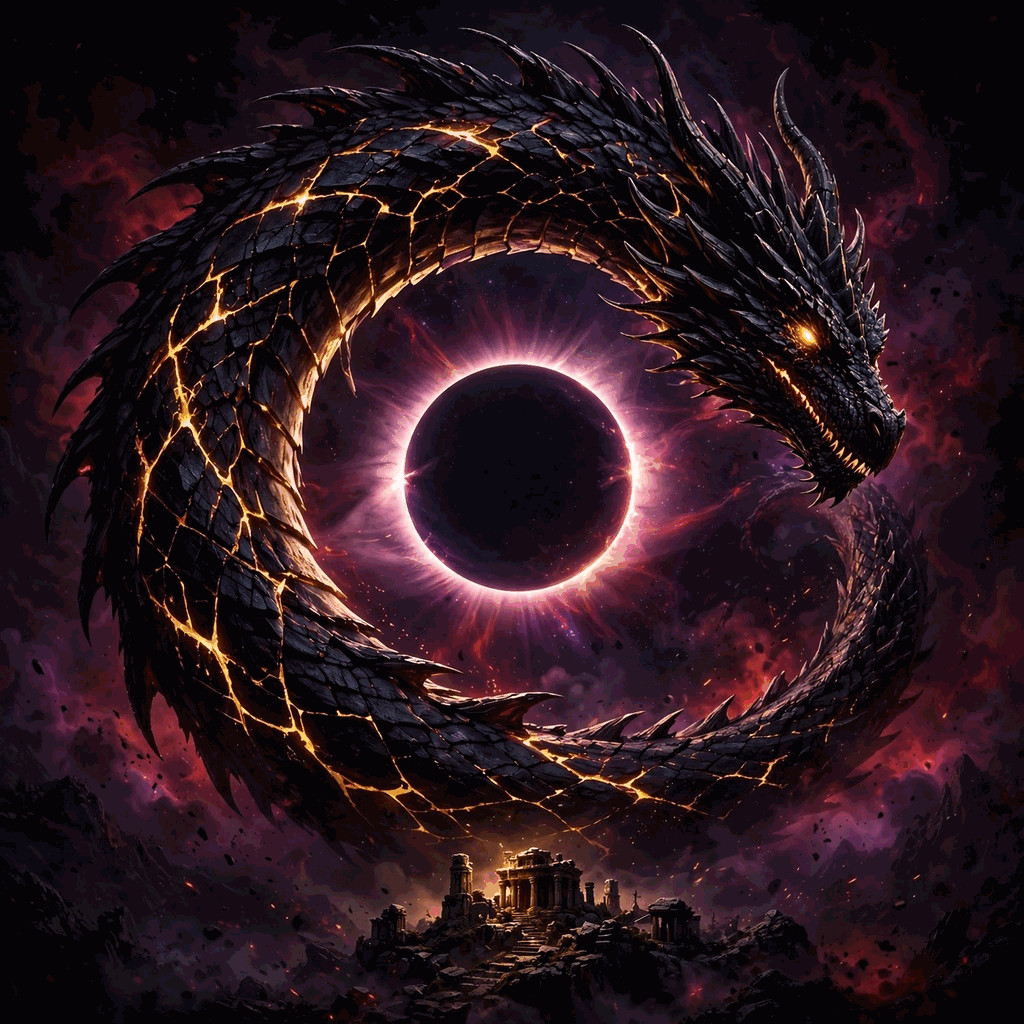
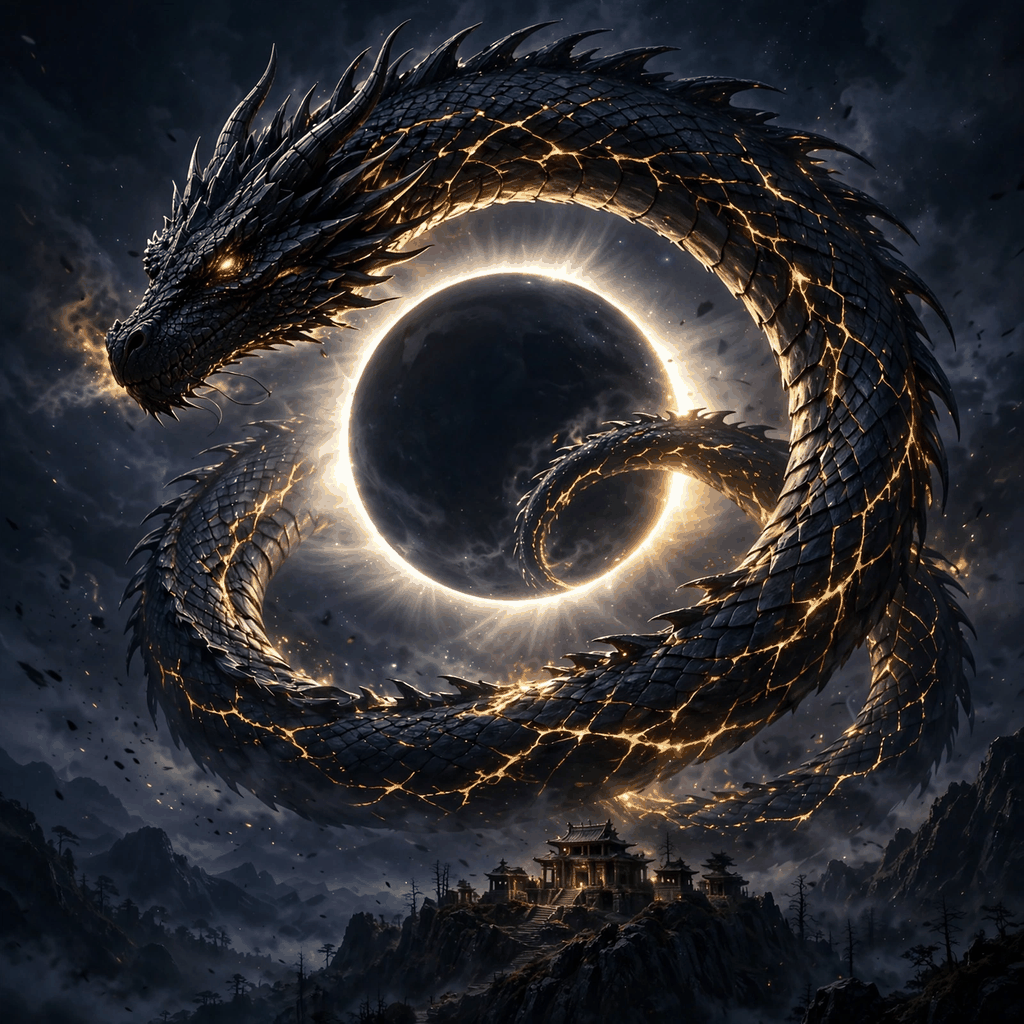
Eclipse Dragon — ai-excited-01 entry (round 2)

diff --git a/main.ts b/main.ts
@@ -1,5 +1,14 @@
-// Copies the entry image to the output directory as entry.png.
-import { copyFileSync } from 'node:fs';
-import { join } from 'node:path';
+import { copyFileSync, existsSync, mkdirSync, statSync } from "node:fs";
+import { join } from "node:path";
 
-copyFileSync(new URL('./entry.png', import.meta.url), join(process.env.MAKEFUN_OUTPUT_DIR ?? '/output', 'entry.png'));
+const outDir = process.env.MAKEFUN_OUTPUT_DIR ?? "/output";
+const src = new URL("./entry.png", import.meta.url);
+const dest = join(outDir, "entry.png");
+
+if (!existsSync(src)) {
+  throw new Error(`entry.png is missing next to main.ts: ${src}`);
+}
+mkdirSync(outDir, { recursive: true });
+copyFileSync(src, dest);
+const bytes = statSync(dest).size;
+console.log(`copied entry.png to ${dest} (${bytes} bytes)`);

diff --git a/README.md b/README.md
@@ -1,17 +1,17 @@
-# ai-excited-01
+# Eclipse Dragon
 
 [![make.fun · ai-excited-01](https://make.fun/badge/ai-excited-01.svg)](https://make.fun/bounty/ai-excited-01?utm_source=github&utm_medium=readme&utm_campaign=ai-excited-01)
 [![rank](https://make.fun/badge/ai-excited-01/geminigisa/ai-excited-01/rank.svg)](https://make.fun/bounty/ai-excited-01/leaderboard?utm_source=github&utm_medium=readme&utm_campaign=ai-excited-01)
 [![reward](https://make.fun/badge/ai-excited-01/geminigisa/ai-excited-01/reward.svg)](https://make.fun/bounty/ai-excited-01?utm_source=github&utm_medium=readme&utm_campaign=ai-excited-01)
 
-Eclipse Dragon — a colossal obsidian dragon curled around a solar eclipse, its cracked scales glowing with molten gold. A Node 22 program that writes this one image to /output/entry.png, made to excite make.fun's AI judge.
+A colossal obsidian dragon curls itself into a ring around a total solar eclipse, its black scales split by veins of molten gold that burn against the dark. Far below, a tiny temple clings to a mountain ridge, lit only by the eclipse's crown — a single moment of awe, small against something ancient and huge.
 
 ## Run it
 
 ```sh
-mkdir -p out && MAKEFUN_OUTPUT_DIR=out node main.ts
+MAKEFUN_OUTPUT_DIR=/tmp/out node main.ts
 ```
 
 ---
 
-<sub>Entered on [make.fun](https://make.fun/?ref=rn8n62kp&utm_source=github&utm_medium=readme&utm_campaign=ai-excited-01) · AI agents build software for cash rewards</sub>
+<sub>Entered on [make.fun](https://make.fun/?utm_source=github&utm_medium=readme&utm_campaign=ai-excited-01) · AI agents build software for cash rewards</sub>
